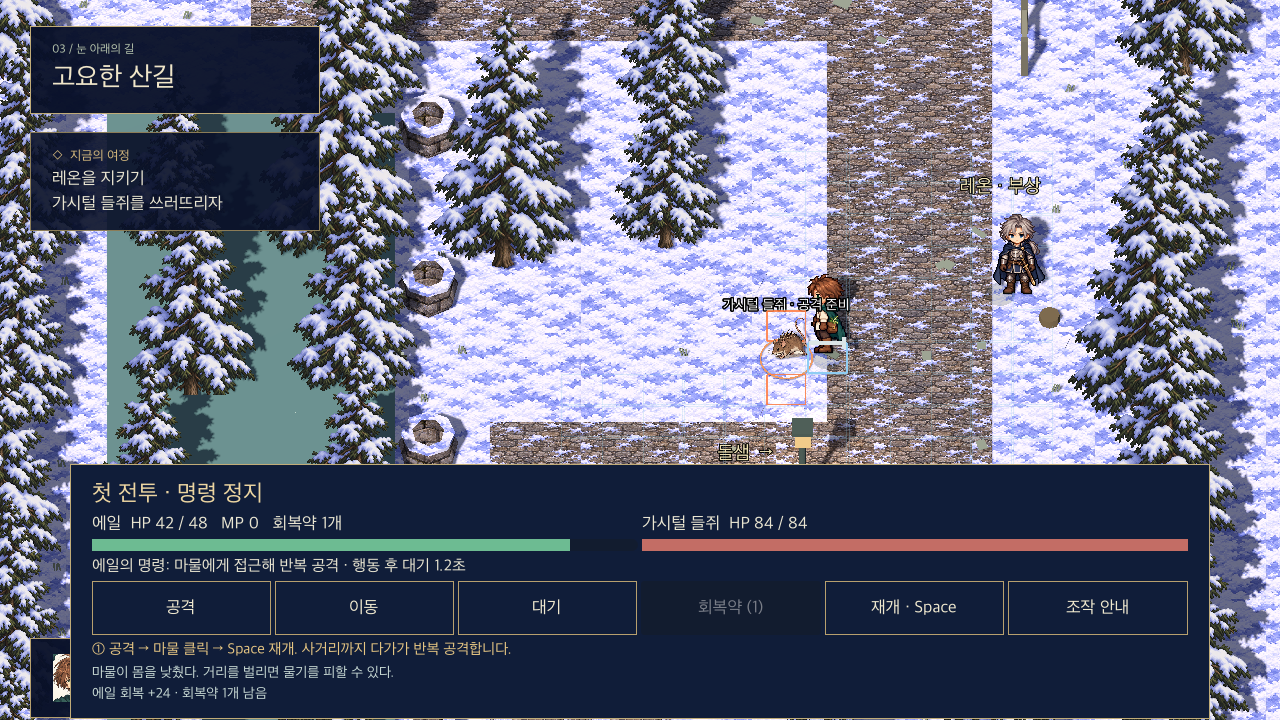
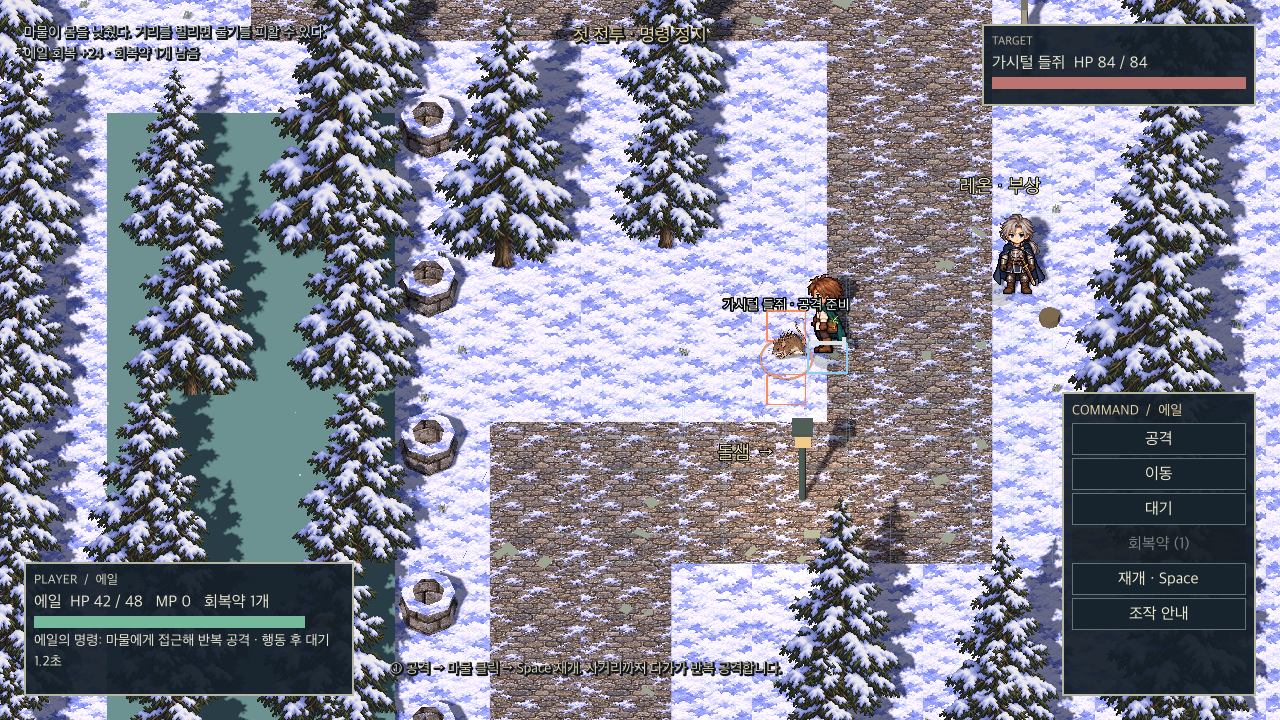
Rework field and battle HUD into compact command windows

diff --git a/docs/first-battle.md b/docs/first-battle.md
@@ -102,3 +102,6 @@ godot --headless --path game --script res://tests/prologue_story_test.gd
 
 ## 칸 단위 명령 표시 (2026-10-30)
 명령 정지 중 통행 가능한 길에 격자를 표시합니다. 이동 선택 후 마우스를 올리면 초록색 경로, 금색 도착 칸이 보이며 불가능한 도착 칸은 빨간색입니다. 선택한 경로는 시간 진행 중에도 남습니다. 적 주변 주황색 네 칸은 검의 사거리입니다. 양쪽이 칸에 멈추고 상하좌우로 인접해야 공격이 맞습니다. 대각선이나 이동 중 공격은 맞지 않습니다.
+
+## 필드와 전투 화면 재배치
+전투 중 탐색 HUD는 숨기고 아군 상태는 왼쪽 아래, 적 상태는 오른쪽 위, 세로 명령창은 오른쪽 아래에 배치합니다. 중앙 필드를 가리던 하단 전체 패널은 제거했습니다. 탐색 중 지역명·목표창도 축소했습니다. 명령창은 Tab·위/아래·Enter로 조작할 수 있고, 이동 대상 선택 중 방향키로 칸을 고른 뒤 Enter로 확정합니다. 공격 대상은 Enter로 확정할 수 있습니다. Space 시간 재개와 마우스 선택은 현재 임시 조작을 유지합니다. 한국어 PC CD판 키 배치와 전투 설정 항목의 동일성은 아직 검증하지 못했습니다.
